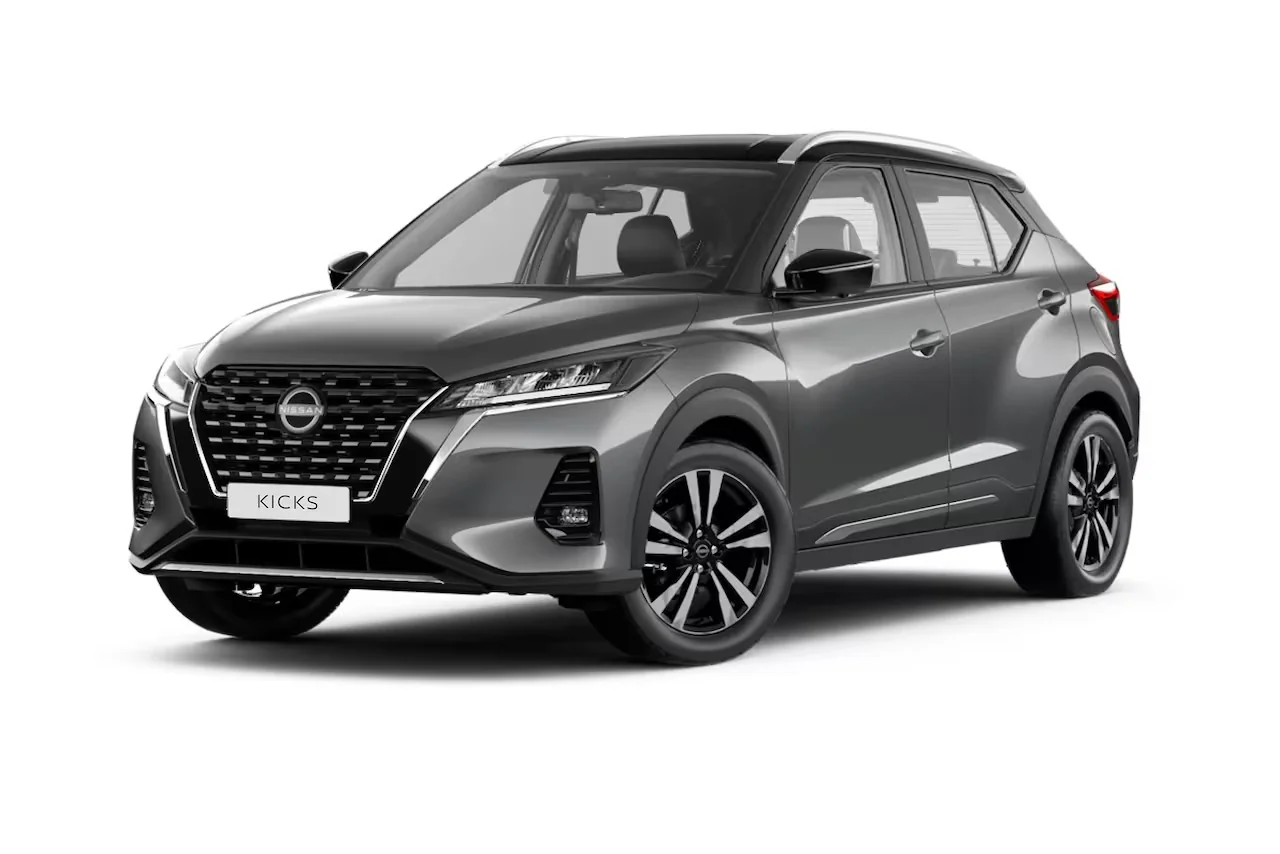
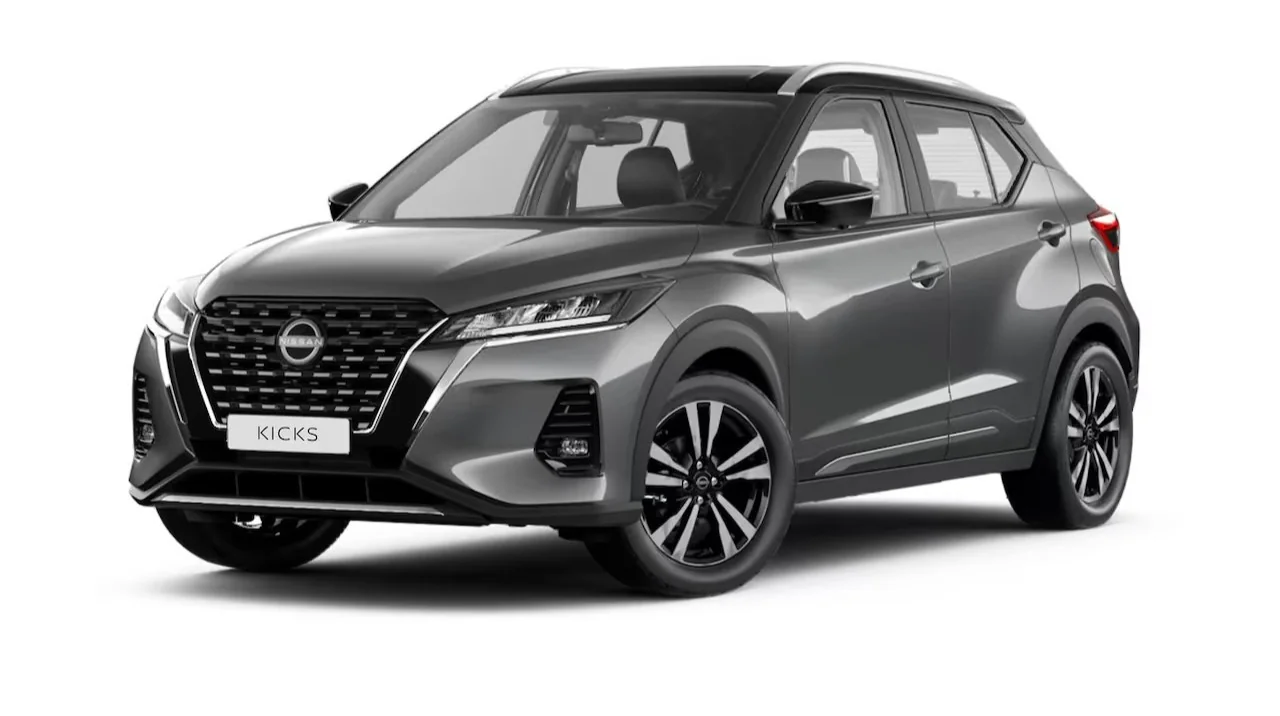
go live

Changed region(s): [[0.0938, 0.0615, 0.9062, 0.8603]]

diff --git a/components/reserva/reserva-pick-car-card.tsx b/components/reserva/reserva-pick-car-card.tsx
@@ -28,7 +28,7 @@ export default function CardCar({
       <div className="flex flex-col h-full">
         {/* Image */}
         <Image
-          className="w-full duration-200"
+          className="w-full object-cover duration-200 h-3/4"
           src={car?.image}
           width={286}
           height={160}
